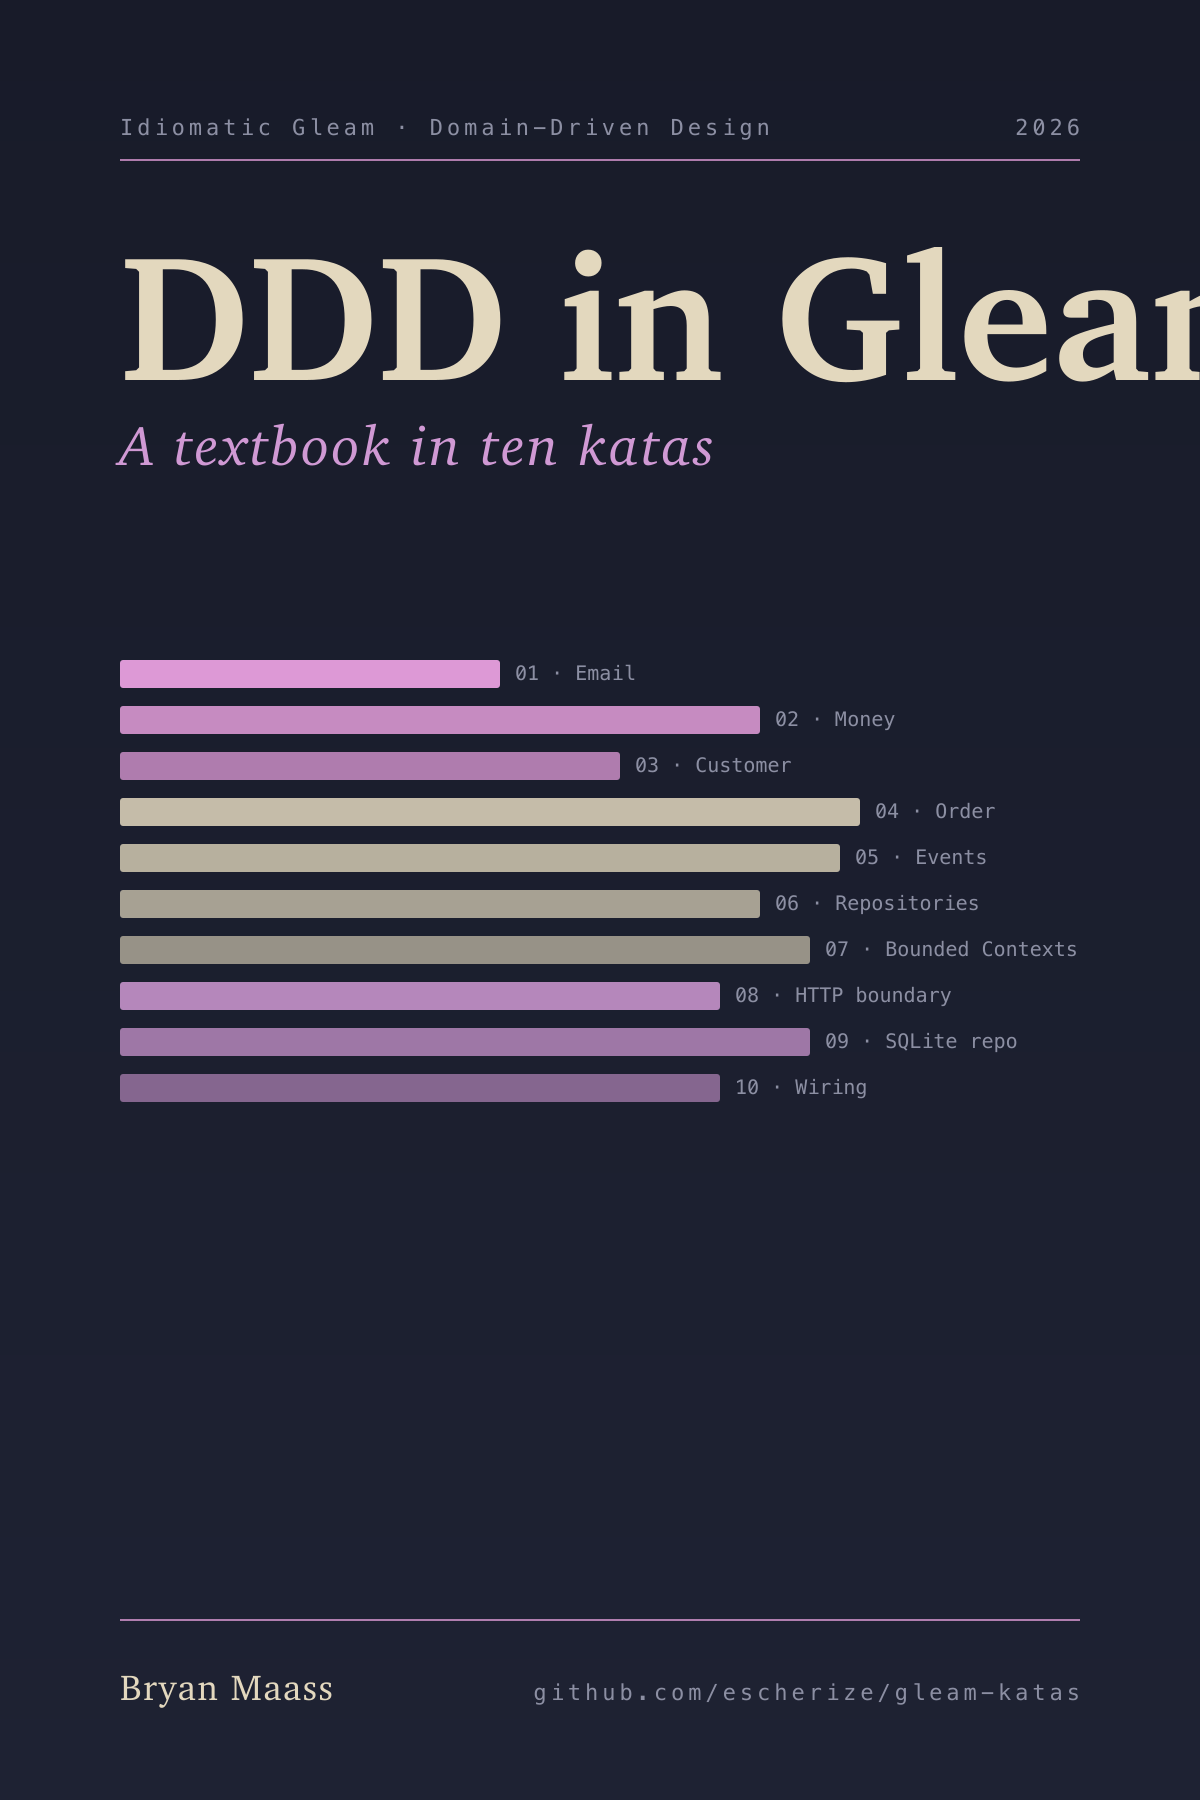
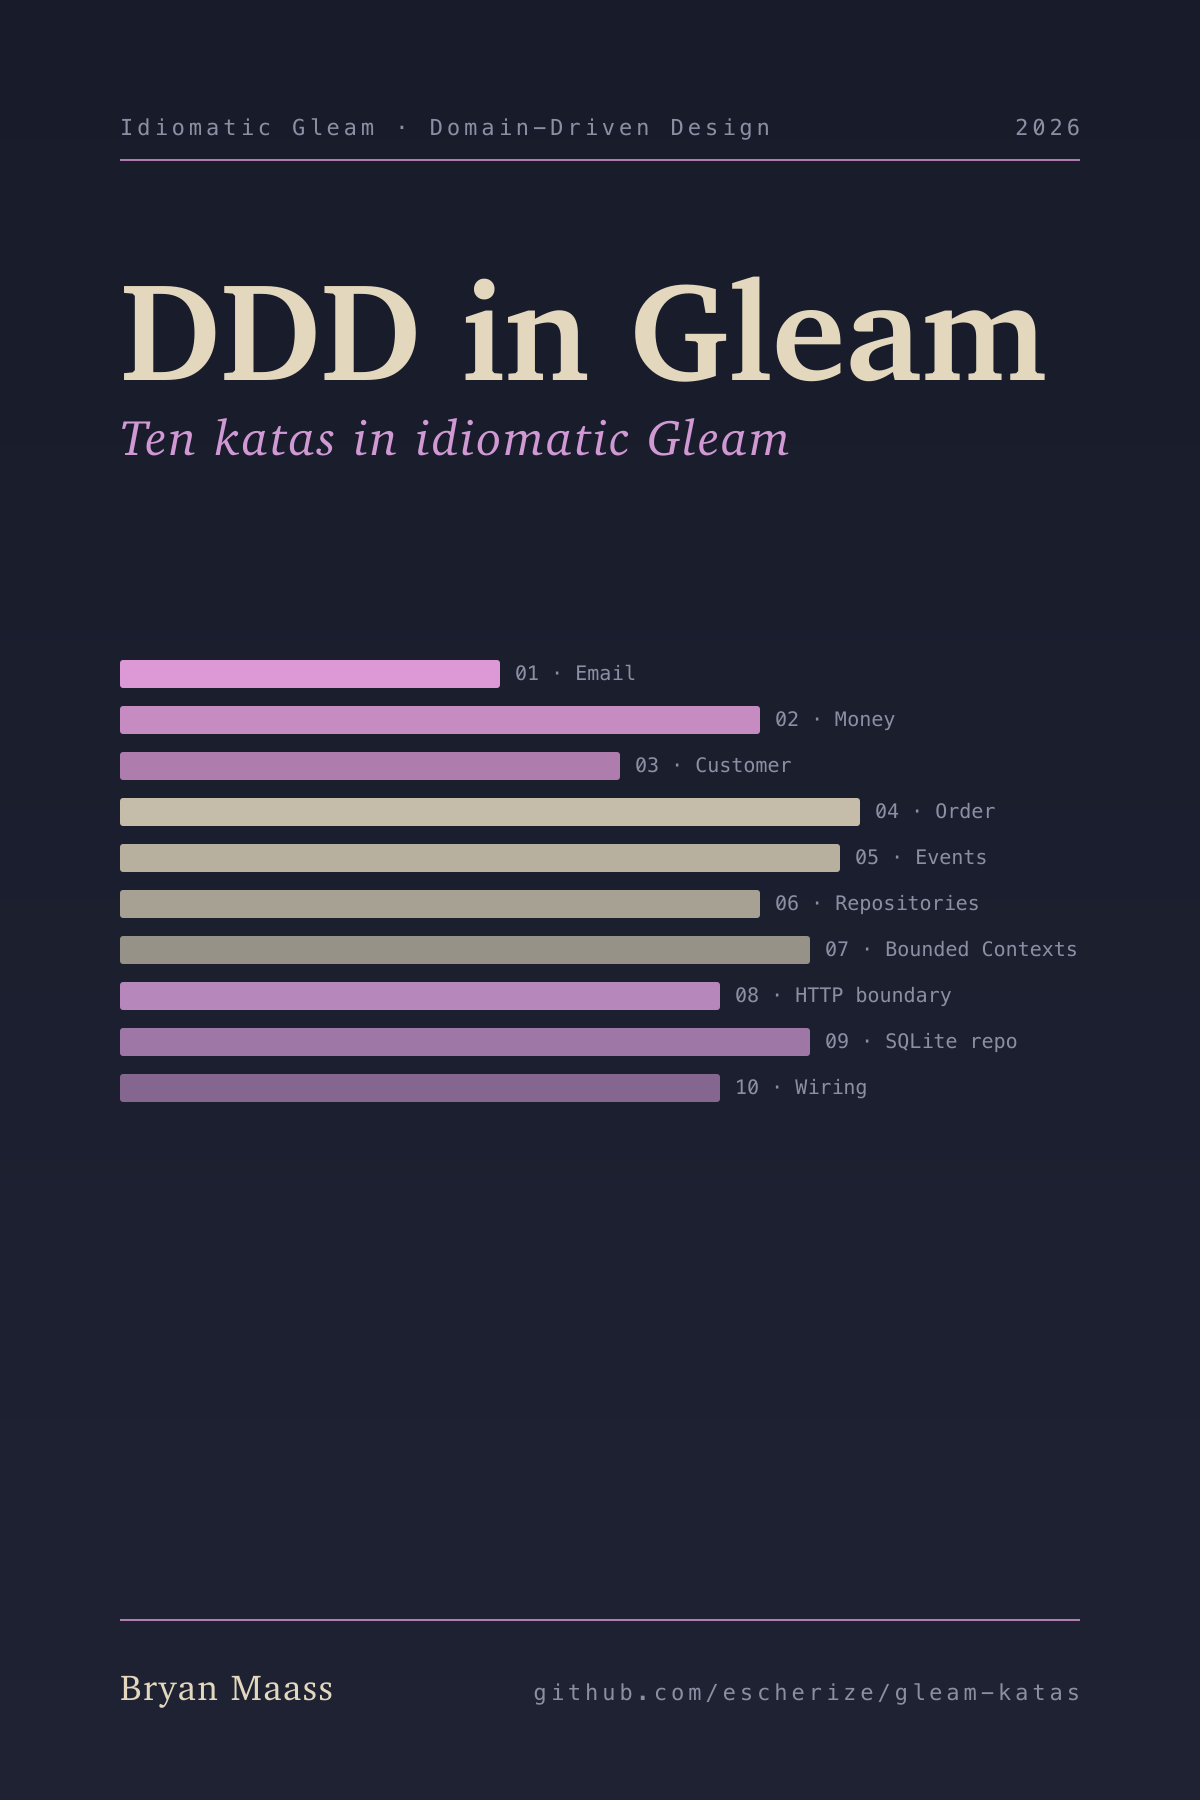
Built site for gh-pages

Changed region(s): [[0.0925, 0.1244, 1.0, 0.28]]

diff --git a/index.html b/index.html
@@ -239,7 +239,7 @@ ul.task-list li input[type="checkbox"] {
 <header id="title-block-header" class="quarto-title-block default">
 <div class="quarto-title">
 <h1 class="title">DDD in Gleam</h1>
-<p class="subtitle lead">A textbook in ten katas</p>
+<p class="subtitle lead">Ten katas in idiomatic Gleam</p>
 </div>
 
 <div>
